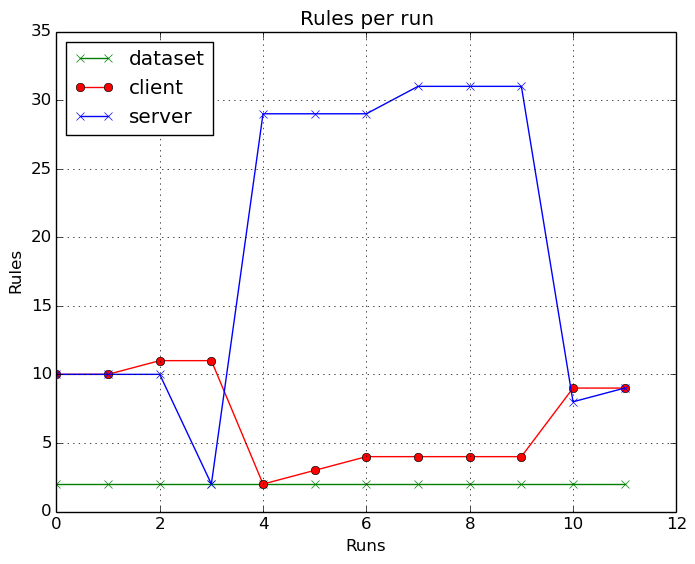
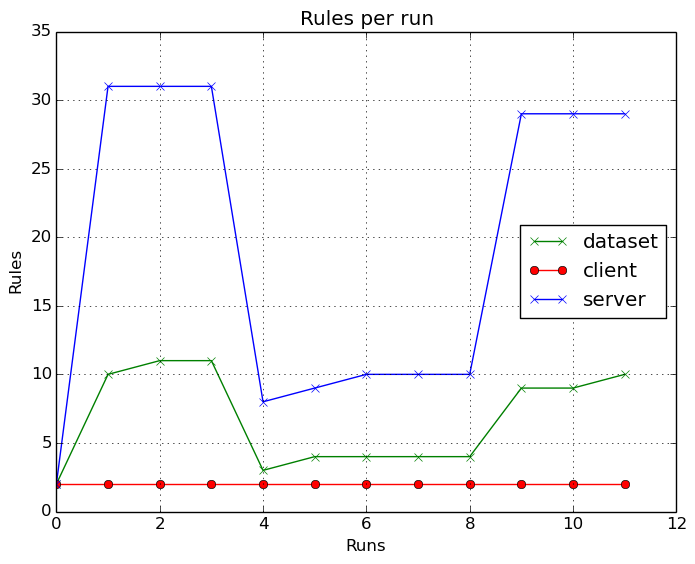
Continue plotting

diff --git a/Parser/metrics/plot.py b/Parser/metrics/plot.py
@@ -68,10 +68,13 @@ for line in data:
 
 max_rules = []
 for i in range(services):
-    rules[i].sort()
+   #  rules[i] = rules[i].sort()
+    rules = sorted(rules,key=lambda l:l[1])
+    print(rules[i])
     max_rules.append(rules[i][int(num_of_runs)-1])
 max_value = max(max_rules)
-
+#rules[1] = rules[1].sort()
+#print(rules[1])
 
 x_Axis=[]
 for x in range(int(num_of_runs)):
@@ -98,6 +101,8 @@ ax.set_ylabel(r"Rules")
 plt.show()
 plt.title("Rules per run")
 plt.savefig("rules.png",bbox_inches="tight")
+
+
 
 """
 #Non generic part
